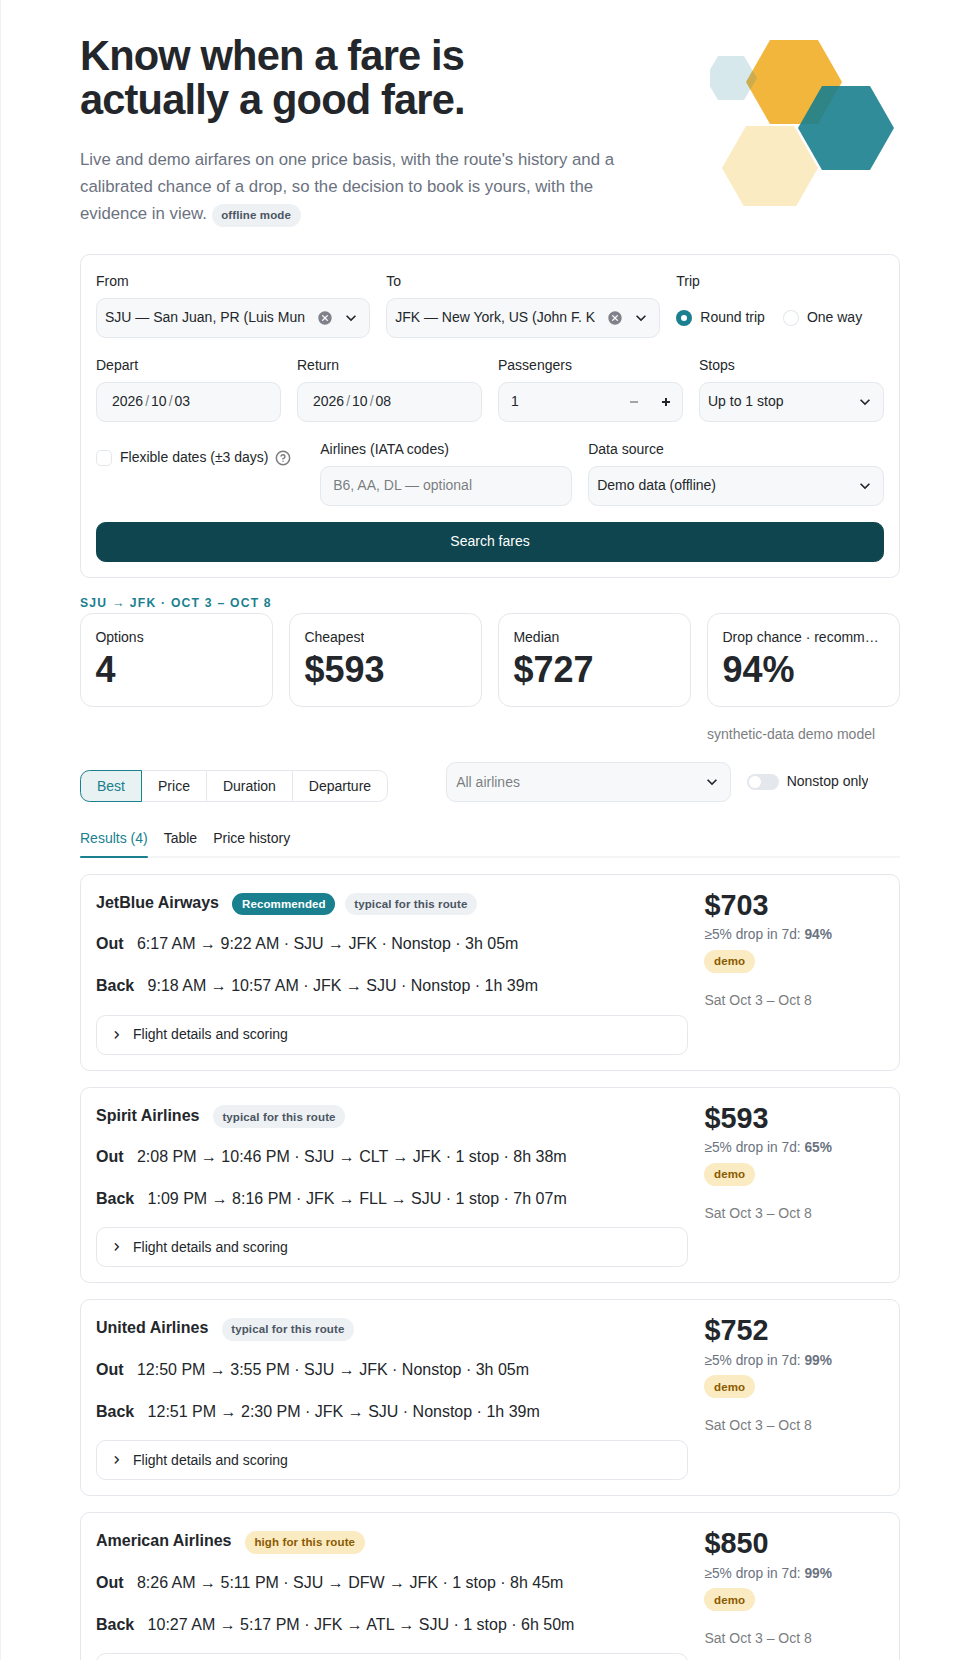
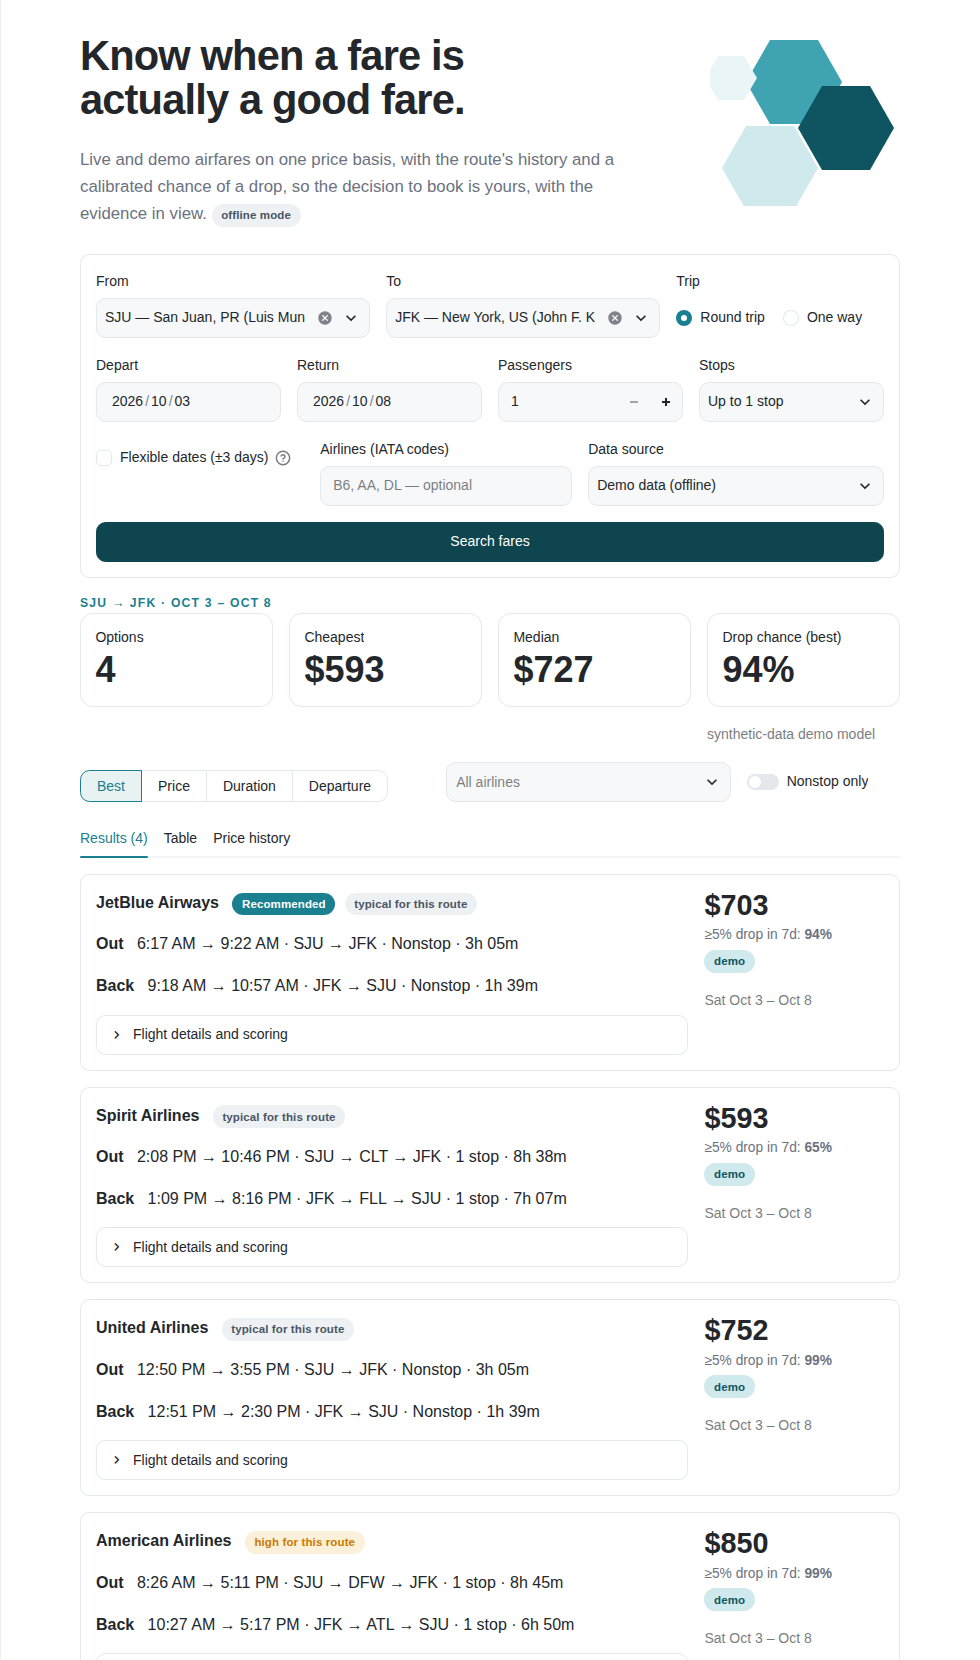
Teal monochrome palette for the hexagon mark, chips and charts

diff --git a/airfare/ui/components.py b/airfare/ui/components.py
@@ -12,9 +12,12 @@ from airfare.domain.models import Itinerary, ScoredOffer
 from airfare.ui import format as fmt
 
 TEAL = "#1A7F8E"
-TEAL_DARK = "#146673"
-GOLD = "#F2B233"
-GOLD_SOFT = "#FBEBC2"
+TEAL_DARK = "#0F5561"
+TEAL_MID = "#3FA3B1"
+AQUA = "#CFE9EC"
+AQUA_SOFT = "#E9F5F6"
+AMBER = "#C97A00"  # reserved for warnings and "high" only
+AMBER_SOFT = "#FBF0D9"
 INK = "#23272B"
 SLATE = "#6B7280"
 LINE = "#E4E8EC"
@@ -37,9 +40,9 @@ CSS = f"""
   .afm-chip.live    {{ background: rgba(26,127,142,.12); color: {TEAL_DARK}; }}
   .afm-chip.low     {{ background: rgba(26,127,142,.12); color: {TEAL_DARK}; }}
   .afm-chip.typical {{ background: #EEF1F4; color: #4B5563; }}
-  .afm-chip.high    {{ background: {GOLD_SOFT}; color: #8A5A00; }}
-  .afm-chip.warn    {{ background: {GOLD_SOFT}; color: #8A5A00; }}
-  .afm-chip.demo    {{ background: {GOLD_SOFT}; color: #8A5A00; }}
+  .afm-chip.high    {{ background: {AMBER_SOFT}; color: {AMBER}; }}
+  .afm-chip.warn    {{ background: {AMBER_SOFT}; color: {AMBER}; }}
+  .afm-chip.demo    {{ background: {AQUA}; color: {TEAL_DARK}; }}
   .afm-chip.model   {{ background: rgba(26,127,142,.12); color: {TEAL_DARK}; }}
   .afm-seg {{ font-variant-numeric: tabular-nums; }}
   div[data-testid="stMetric"] {{ background: #FFFFFF; border: 1px solid {LINE}; border-radius: .8rem; padding: .7rem .9rem; }}
@@ -52,10 +55,10 @@ CSS = f"""
 
 HEX_MARK = f"""
 <svg width="190" height="170" viewBox="0 0 190 170" fill="none" xmlns="http://www.w3.org/2000/svg" aria-hidden="true">
-  <polygon points="60,4 108,4 132,46 108,88 60,88 36,46" fill="{GOLD}" opacity=".95"/>
-  <polygon points="112,50 160,50 184,92 160,134 112,134 88,92" fill="{TEAL}" opacity=".9"/>
-  <polygon points="36,90 84,90 108,132 84,174 36,174 12,132" fill="{GOLD_SOFT}"/>
-  <polygon points="8,20 34,20 47,42 34,64 8,64 -5,42" fill="rgba(26,127,142,.18)"/>
+  <polygon points="60,4 108,4 132,46 108,88 60,88 36,46" fill="{TEAL_MID}"/>
+  <polygon points="112,50 160,50 184,92 160,134 112,134 88,92" fill="{TEAL_DARK}"/>
+  <polygon points="36,90 84,90 108,132 84,174 36,174 12,132" fill="{AQUA}"/>
+  <polygon points="8,20 34,20 47,42 34,64 8,64 -5,42" fill="{AQUA_SOFT}"/>
 </svg>
 """
 
@@ -208,7 +211,7 @@ def trend_chart(trend: pd.DataFrame, height: int = 260) -> alt.Chart | None:
             color=alt.Color(
                 "series:N",
                 title=None,
-                scale=alt.Scale(range=[TEAL, "#B8C0C8", GOLD]),
+                scale=alt.Scale(range=[TEAL_DARK, "#B8C0C8", TEAL_MID]),
                 legend=alt.Legend(orient="top"),
             ),
             tooltip=[
